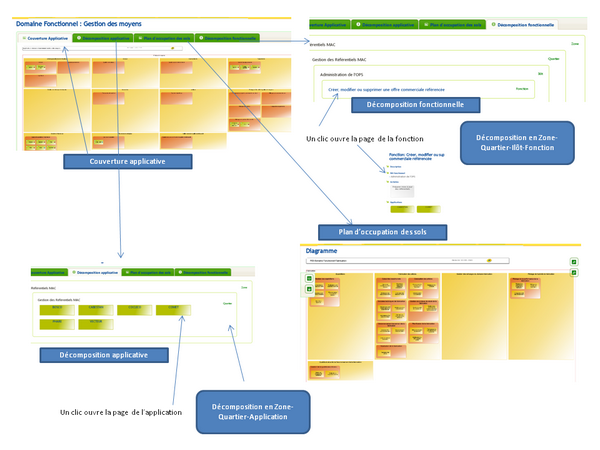
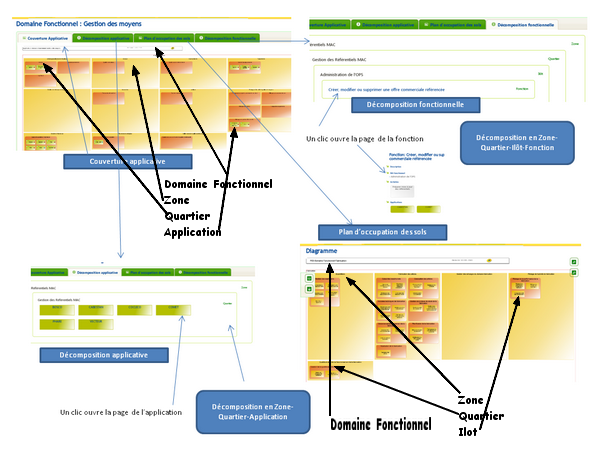
Signed-off-by: Nadine Weiss <nadine.weiss@laposte.fr>

diff --git a/js/main.js b/js/main.js
@@ -40,6 +40,37 @@ function addHelpForPage(image){
 }
 
 
+function addHelpForPage1(image){
+  $('#container #center').children().first().before(' <a href="../images/aide/' +image + '.png" class="help-image" target="_blank" title="Aide sur les diagrammes de cette page" >  <img class="clic" src="../images/aide/diag.png" alt="Aide sur cette page" /></a>');  
+  $('.help-image').click(function(e){
+    $('.help-zone').remove();
+    $('body').append('<div class="help-zone" title="Aide sur cette page" ><a href="#"><img src="../images/aide/close-2.png" alt="Aide sur les diagrammes de  cette page" /></a><br/><img src="../images/aide/' +image + '.png"/></div>');
+    $('.help-zone').css('position', 'absolute').css('top', 300).css('left', 50);
+    $('.help-zone').draggable();
+    $('.help-zone a').click(function(){
+      $(this).parent().remove();
+      return false;
+    })
+    return false;
+  });
+}
+
+
+function addHelpForPage2(image){
+  $('#container #center').children().first().before(' <a href="../images/aide/' +image + '.png" class="help-image" target="_blank" title="Code couleurs >  <img class="clic" src="../images/color.gif" alt="Code couleur" /></a>');  
+  $('.help-image').click(function(e){
+    $('.help-zone').remove();
+    $('body').append('<div class="help-zone" title="Code couleurs" ><a href="#"><img src="../images/aide/close-2.png" alt="Aide sur les diagrammes de  cette page" /></a><br/><img src="../images/aide/color.png"/></div>');
+    $('.help-zone').css('position', 'absolute').css('top', 300).css('left', 50);
+    $('.help-zone').draggable();
+    $('.help-zone a').click(function(){
+      $(this).parent().remove();
+      return false;
+    })
+    return false;
+  });
+}
+
 function removeFullScreen(){
   $.cookie('fullScreen', null);
   window.location.reload(true);

diff --git a/webdesigner/handmade/vision_metier/vision_metier.js b/webdesigner/handmade/vision_metier/vision_metier.js
@@ -72,20 +72,19 @@ function search_drawItems_vision_metier(all_items, searching){
 }
 
 function drawItems_vision_metier(all_items, searching) {
-  createPage('../', 'La vision Métier (Macro Processus par Domaine Métier) ', function(){
+  createPage('../', 'Vision Métier ', function(){
 setFullScreen();
     openMenu('menu_vision_metier');
      var bc = "<a href='home.html'>Le référentiel du SI</a>";
         bc += ' > ' + "Vision Métier";
     updateBreadCrumbPage(bc);    
   
-    
-    
+  
     
     
     var output = [];
     createPageContent(output, all_items);
-
+   
     $(SITE_CONTENT_SELECTOR).html(output.join(''));
 
 
@@ -98,6 +97,7 @@ setFullScreen();
     $('a').tooltip({showURL: false, fade:250});
     
     addHelpForPage("vision_metier");
+
     
     setToolTipsOnTitles();
     doLayoutsSpecialActions();

diff --git a/webdesigner/handmade/composantapplicatif/composantapplicatif.js b/webdesigner/handmade/composantapplicatif/composantapplicatif.js
@@ -35,6 +35,7 @@ function draw_composantapplicatif(composantapplicatif){
 		$("li.fonctions li.application").hide();
 		$("ul.border").addClass("ui-corner-all");
 		addHelpForPage("application");
+		addHelpForPage1("echange");
 	});
 }
 

diff --git a/webdesigner/handmade/macroprocessus/macroprocessus.js b/webdesigner/handmade/macroprocessus/macroprocessus.js
@@ -137,6 +137,7 @@ function draw_macroprocessus(macroprocessus){
     $(".ui-tabs-nav span").removeClass('ui-icon');
     $(".ui-tabs-nav span").addClass('ui-icon1');
         addHelpForPage("macro");
+
 	});
 }
 

diff --git a/webdesigner/handmade/entreprise/entreprise.js b/webdesigner/handmade/entreprise/entreprise.js
@@ -66,6 +66,7 @@ function draw_entreprise(entreprise){
     $(".ui-tabs-nav span").removeClass('ui-icon');
     $(".ui-tabs-nav span").addClass('ui-icon1');
         addHelpForPage("entreprise");
+ 
 	});
 }
 

diff --git a/webdesigner/handmade/processus/processus.js b/webdesigner/handmade/processus/processus.js
@@ -187,4 +187,5 @@ function createProcessusDetailsContent(output, processus){
 
   addDiagrams(output, processus);
   addHelpForPage("processus");
+ 
 }
